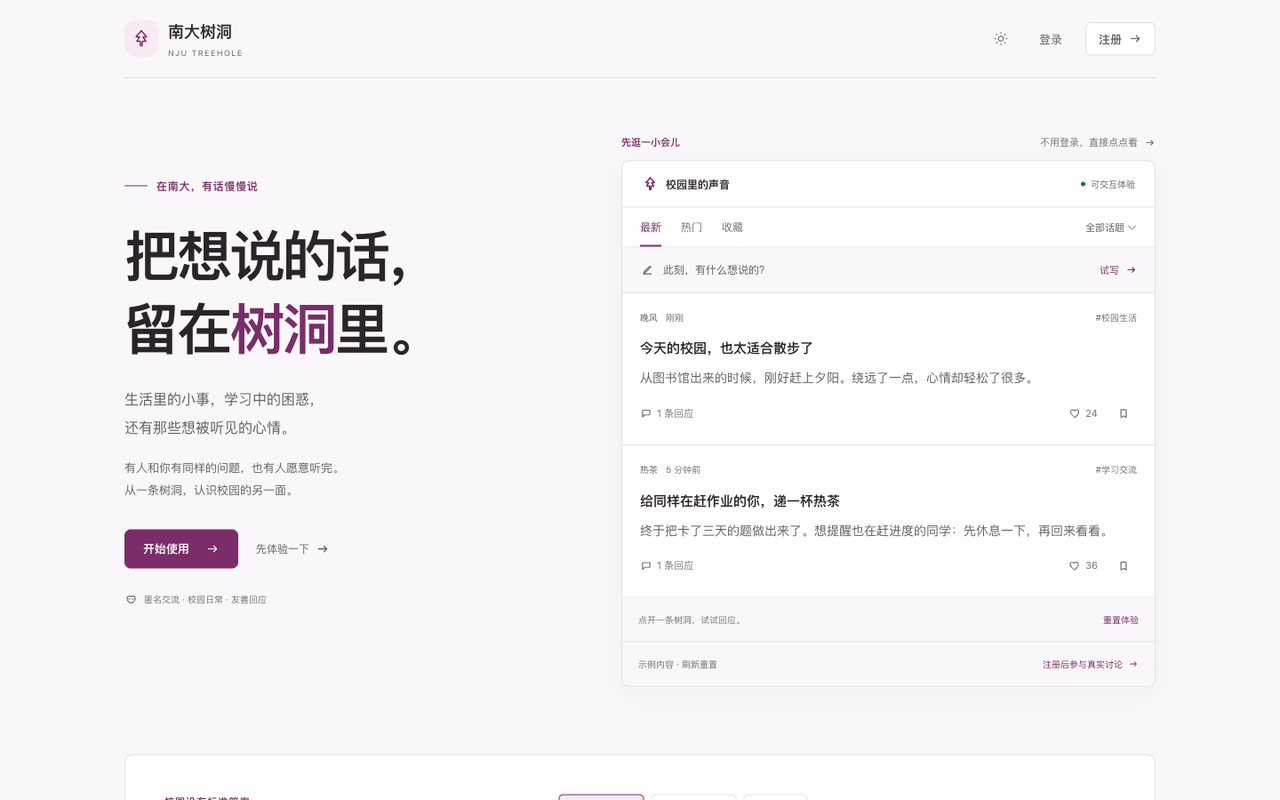
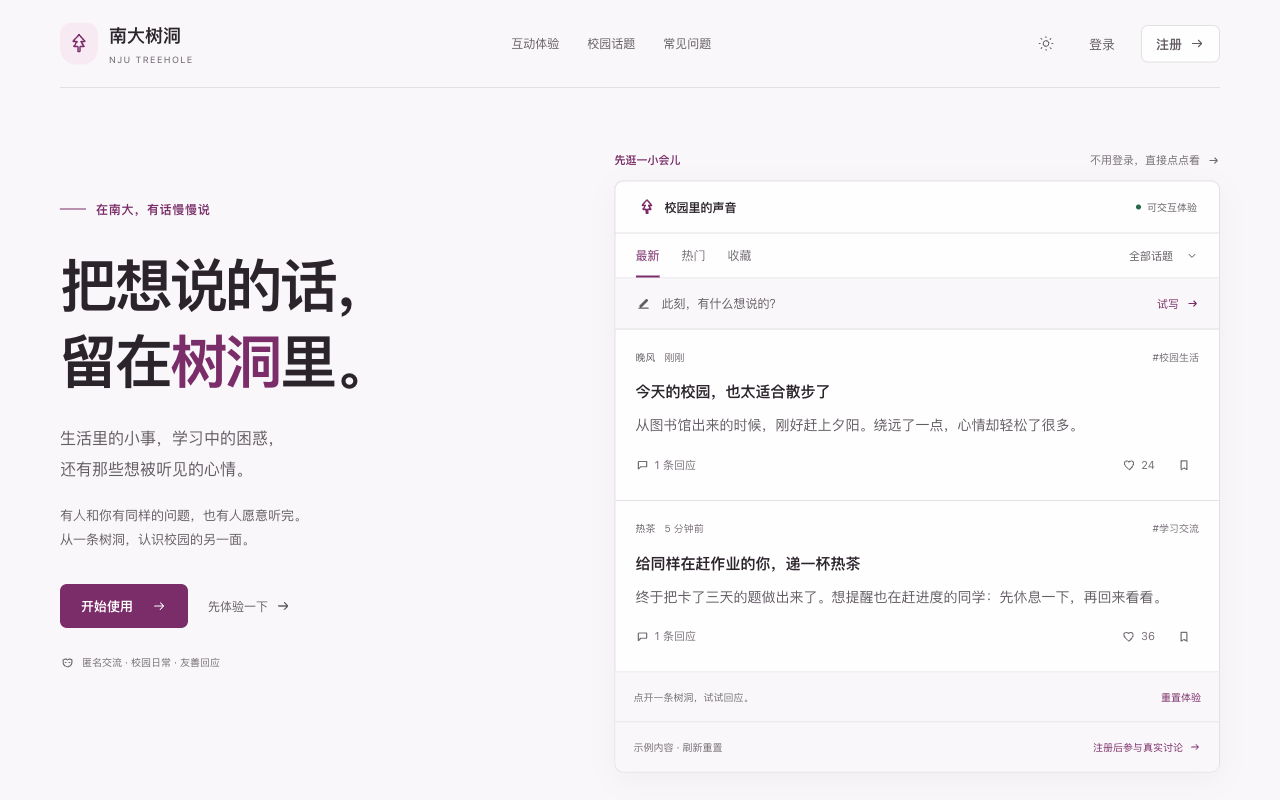
fix(frontend): refine topbar styling and clarify README
Remove the preview banner and its layout offsets, and align the Treehole AI button with the other topbar controls.

Align and refresh README screenshots, distinguish backend persistence from frontend preview data, and prioritize full-stack setup instructions.

Validation: frontend lint, 171 tests, production build, and browser layout and button interaction checks passed.

diff --git a/frontend/src/styles/community.css b/frontend/src/styles/community.css
@@ -39,9 +39,9 @@
 .search-submit { height: 100%; padding: 0 18px; border: 0; border-left: 1px solid var(--color-line); border-radius: 0 6px 6px 0; background: transparent; color: var(--color-text-2); font-size: 12px; white-space: nowrap; }
 .search-submit:hover { background: var(--color-blue-soft); color: var(--color-blue); }
 .topbar-actions { flex: none; gap: 12px; }
-.ai-topbar-btn { height: 36px; padding: 0 12px; gap: 6px; background: var(--color-blue-soft); border-radius: 7px; color: var(--color-blue); font-size: 12px; font-weight: 600; box-shadow: none; }
-.ai-topbar-btn:hover { transform: none; translate: none; box-shadow: none; background: var(--color-surface-tint); }
-.ai-topbar-btn .app-icon { width: 17px; height: 17px; }
+.ai-topbar-btn { display: inline-flex; align-items: center; justify-content: center; flex: none; height: 36px; padding: 0 8px; gap: 6px; border: 0; border-radius: 7px; background: transparent; color: var(--color-text-2); font: inherit; font-size: 12px; font-weight: 500; line-height: 1.5; white-space: nowrap; cursor: pointer; transition: background-color 150ms ease, color 150ms ease; }
+.ai-topbar-btn:hover { background: var(--color-surface-soft); color: var(--color-blue); }
+.ai-topbar-btn .app-icon { width: 18px; height: 18px; stroke-width: 1.6; }
 .icon-button { width: 36px; height: 36px; border: 0; border-radius: 7px; box-shadow: none; background: transparent; }
 .icon-button:hover { transform: none; translate: none; background: var(--color-surface-soft); }
 .mobile-brand { display: none; }
@@ -224,13 +224,6 @@
 @media (prefers-reduced-motion: reduce) {
   *, *::before, *::after { animation-duration: .01ms !important; animation-iteration-count: 1 !important; transition-duration: .01ms !important; scroll-behavior: auto !important; }
 }
-
-.preview-banner { display: flex; justify-content: center; align-items: center; flex-wrap: wrap; gap: 8px 18px; min-height: 30px; padding: 6px 12px; background: var(--color-blue-soft); color: var(--color-blue); font-size: 11px; }
-.preview-banner a { text-decoration: underline; text-underline-offset: 3px; }
-.preview-banner { position: sticky; top: 0; z-index: 50; height: 30px; }
-.preview-banner + .app-shell .sidebar { height: calc(100dvh - 30px); top: 30px; }
-.preview-banner + .app-shell { min-height: calc(100dvh - 30px); }
-.preview-banner + .app-shell .topbar { top: 30px; }
 
 /* The public welcome screen uses the same reading surfaces as the app. */
 .welcome-page { max-width: 1160px; margin-inline: auto; padding: 0 40px; }
@@ -701,9 +694,6 @@ button:disabled { cursor: not-allowed; opacity: .55; }
 .admin-topbar { height: 74px; gap: 14px; background: var(--color-surface); backdrop-filter: none; }
 .admin-topbar-caption { margin-right: auto; font-size: 13px; color: var(--color-text-2); }
 .admin-shell .nav-item > span.absolute { display: none; }
-.preview-banner + .admin-shell .sidebar { height: calc(100dvh - 30px); top: 30px; }
-.preview-banner + .admin-shell { min-height: calc(100dvh - 30px); }
-.preview-banner + .admin-shell .admin-topbar { top: 30px; }
 @media (max-width: 680px) { .admin-topbar { height: 60px; gap: 10px; } }
 .admin-mobile-nav { inset: auto 0 0; padding: 8px 12px calc(8px + env(safe-area-inset-bottom, 0px)); border: 0; border-radius: 0; background: var(--color-surface); backdrop-filter: none; box-shadow: 0 -1px 0 var(--color-line); }
 .admin-mobile-nav > button { font-size: 11px; font-weight: 500; min-height: 44px; border-radius: 7px; }

diff --git a/frontend/src/components/layout/TopBar.jsx b/frontend/src/components/layout/TopBar.jsx
@@ -261,8 +261,8 @@ function TopBar({ query, onQueryChange, onNavigate, onAIOpen }) {
             </form>
             <div className="topbar-actions flex items-center gap-2.5 max-sm:gap-1.5">
               <ThemeToggle />
-              <button className="ai-topbar-btn flex items-center gap-1.5 h-[38px] px-4 border-0 rounded-full text-white bg-gradient-to-br from-blue to-[#6c5ce7] text-[13px] font-bold shadow-sm transition-all duration-150 hover:-translate-y-px hover:shadow-md" onClick={onAIOpen} type="button" aria-label="树洞 AI">
-                <Icon name="smart_toy" filled />
+              <button className="ai-topbar-btn" onClick={onAIOpen} type="button" aria-label="树洞 AI">
+                <Icon name="smart_toy" />
                 <span>树洞 AI</span>
               </button>
               <div className="notif-wrapper relative">

diff --git a/frontend/src/main.jsx b/frontend/src/main.jsx
@@ -14,7 +14,6 @@ const isPreview = import.meta.env.DEV && new URLSearchParams(window.location.sea
 function renderApp() {
   createRoot(document.getElementById('root')).render(
     <React.StrictMode>
-      {isPreview && <div className="preview-banner">课程演示 · 示例数据，刷新后重置 <a href="/">返回正式入口</a></div>}
       <App />
     </React.StrictMode>,
   );

diff --git a/docs/frontend-redesign.md b/docs/frontend-redesign.md
@@ -212,3 +212,17 @@
 按用户反馈，将话题触发按钮从正文下方的独立一行移到底部工具栏，与图片入口同组并列。已选标签和展开的话题输入仍在上方；空态不渲染额外话题行。右侧编辑与发布作为另一组，窄屏整体换行，避免拆开同级入口。保留多选、自定义、移除、输入法处理和 Escape 返回话题按钮。
 
 `check-compose-toolbar.js` 检查 1440/390/320px × 深浅主题 × 空态/展开/已选话题和图片，共 18 组，两个按钮始终同高同一行，页面无横向溢出。已复看手机浅色与桌面深色截图；25 项相关测试、lint、生产构建和 diff 检查通过。
+
+## README 预览对齐与移除顶部提示条（2026-10-24）
+
+用户反馈 README 预览不齐，并要求后续使用时去掉页面最上方的课程演示与返回入口。移除 main.jsx 中提示条及普通/管理外壳的 30px 偏移，顶栏和侧栏从视口顶部开始；保留开发预览参数和 API 隔离，真实入口仍连接后端。
+
+README 改为同一张 HTML 表格展示桌面、手机和深色预览。桌面 1280×844、手机 400×844 使用相同视口高度，分别按 608/190px 显示，保持比例且展示高度相同；深色图占整行，左右边界与上方图片组合对齐。四张截图已重新截取，不再显示旧提示条。截图为浏览器实际渲染，无图片拉伸或拼接编辑。
+
+`update-readme-previews.js` 检查首页、详情、landing page 的 13 组尺寸/页面组合，无提示条、顶部偏移、横向溢出或脚本错误，矮屏及手机滚动到底通过。README HTML 在本地按常见 Markdown 表格样式渲染，桌面和手机预览同高 400.898px，上下边缘相同；该检查不冒充线上 GitHub 渲染验收。预览截图为 `output/playwright/readme-preview-aligned.png`。前端 35 文件 / 171 测试、lint、生产构建通过。
+
+## 顶栏 AI 按钮协调（2026-10-24）
+
+树洞 AI 原先使用常驻紫色底、600 字重和实心图标，视觉重量高于主题、通知和设置。本次改为透明底、同色的中性文字、500 字重和 18px / 1.6px 描边图标；悬停才出现浅背景和品牌文字。清理 JSX 中残留的渐变、阴影、上浮及粗字工具类，样式集中在 ai-topbar-btn。保留现有点击行为和手机显示规则。
+
+`check-ai-entry.js` 检查 1440/1024/768/390/320px 深浅主题共 10 组：可见入口与通知同为 36px 高、文字同色，无填充图标或阴影；悬停不位移，键盘焦点和 Enter 打开、点击关闭通过。实际复看深浅主题截图，并更新 README 的桌面与深色预览。前端 171 项测试、lint、构建及 diff 检查通过。

diff --git a/docs/design/ui-spec.md b/docs/design/ui-spec.md
@@ -54,6 +54,8 @@
 
 次要操作从属于正文：个人帖子删除放在元信息行，取消胶囊边框，手机 12px 图标 / 11px 文字、桌面 13px 图标 / 12px 文字，点击区域保持 30px 高。SVG 尺寸使用真实宽高，避免字号设置对图形失效。顶栏主题入口使用 17px 太阳/月亮图标，点击区域手机 32×34px、桌面 34×34px；设置页保留完整主题偏好。
 
+顶栏“树洞 AI”沿用次级工具风格：透明底、中性文字，12px / 500 字重，18px 细线机器人图标与 36px 点击高度。悬停使用浅表面色和品牌文字，不使用常驻强调色底、渐变、阴影或位移。
+
 ## 入口与浮层
 
 入口页保留品牌标题与产品列表体验，示例正文 14px，窄屏标题随宽度缩放；320px 隐去品牌英文副题以容纳主题、登录和注册。弹窗使用不透明语义内容面与 9px 圆角，最大高度随动态视口调整；通知正文自然换行，面板内部滚动，不把长内容裁在不可到达的区域。
@@ -68,7 +70,7 @@
 
 ## 页面滚动与左栏底部
 
-文档负责主页面滚动，根画布与滚动轨道显式跟随主题。根容器最小高度采用动态视口，演示条占用的 30px 从应用最小高度中扣除，避免短页产生额外空白。手机正文底部留出固定导航的空间。
+文档负责主页面滚动，根画布与滚动轨道显式跟随主题。根容器最小高度采用动态视口，顶栏和侧栏从视口顶部开始，不显示课程演示提示条或为其预留偏移。手机正文底部留出固定导航的空间。
 
 桌面侧栏随动态视口定高，发布按钮为底部最后一项，距视口底边至少 18px；其上为紧凑的“账号与设置”入口，使用细线用户图标、文字和右箭头，不显示占位昵称或问候语。退出登录统一放在设置页底部，所有尺寸均可见。上方导航区可在矮窗口内部滚动，底部操作区不收缩。
 

diff --git a/openspec/specs/frontend-refresh/spec.md b/openspec/specs/frontend-refresh/spec.md
@@ -124,3 +124,15 @@
 
 - “话题”与“图片”作为同级操作并列在底部工具栏，不各占一行。已选话题、话题输入区和图片预览放在正文与工具栏之间，空态不留额外空行。
 - 手机窄屏可让编辑/发布操作整体换行，但话题、图片和图片数量作为同组保持对齐；自定义、多选、移除、中文输入及 Escape 返回入口继续可用。
+
+## README 预览与顶部提示条（2026-10-24）
+
+- README 的桌面、手机预览采用对齐的分栏，截图使用同一视口高度和匹配的缩放比例，保持比例，不拉伸或裁掉界面内容；深色预览与上方分栏使用一致的外边界。
+- 删除页面顶部的课程演示及返回入口条，同时删除用户端、管理端与该条关联的 30px 偏移。原有开发预览开关和 API 隔离继续用于开发；普通入口继续连接后端。
+- 更新仓库截图并检查 README 的实际 HTML 排版、手机/桌面首页、详情及落地页顶部与滚动边界，运行前端 lint、测试与生产构建。
+
+## 顶栏 AI 入口协调（2026-10-24）
+
+- 树洞 AI 与主题、通知等顶栏次级操作保持相近的尺寸和视觉重量：透明底、中性文字、细线图标，悬停提供轻微品牌色和背景反馈。
+- 清理旧的渐变、粗字、阴影和上浮工具类，样式由语义 class 管理；保留现有打开行为和手机显示规则。
+- 验证深浅主题、悬停/键盘焦点、点击打开/关闭以及桌面、平板和手机布局，并同步 README 中受影响的截图。
